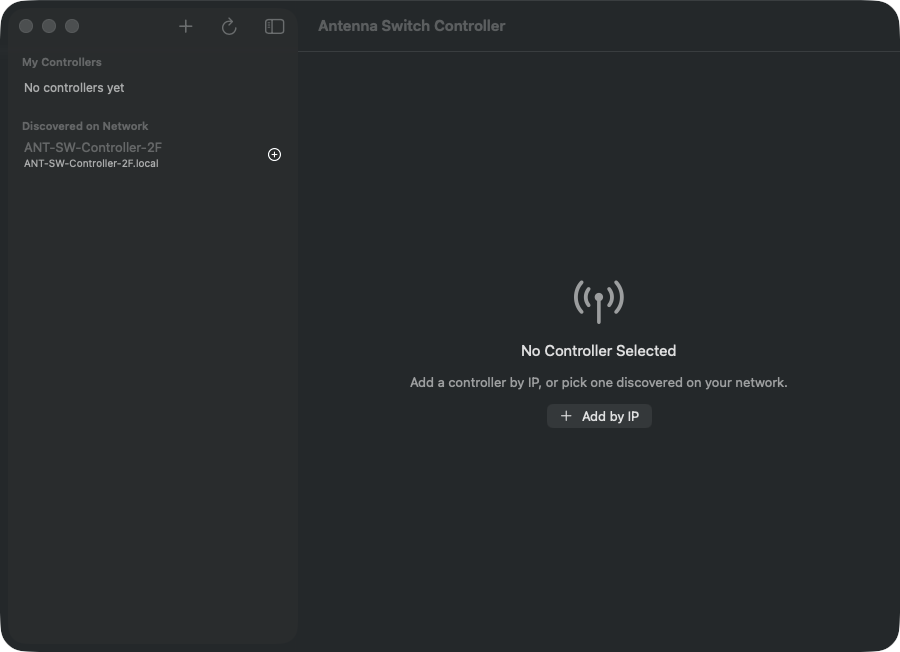
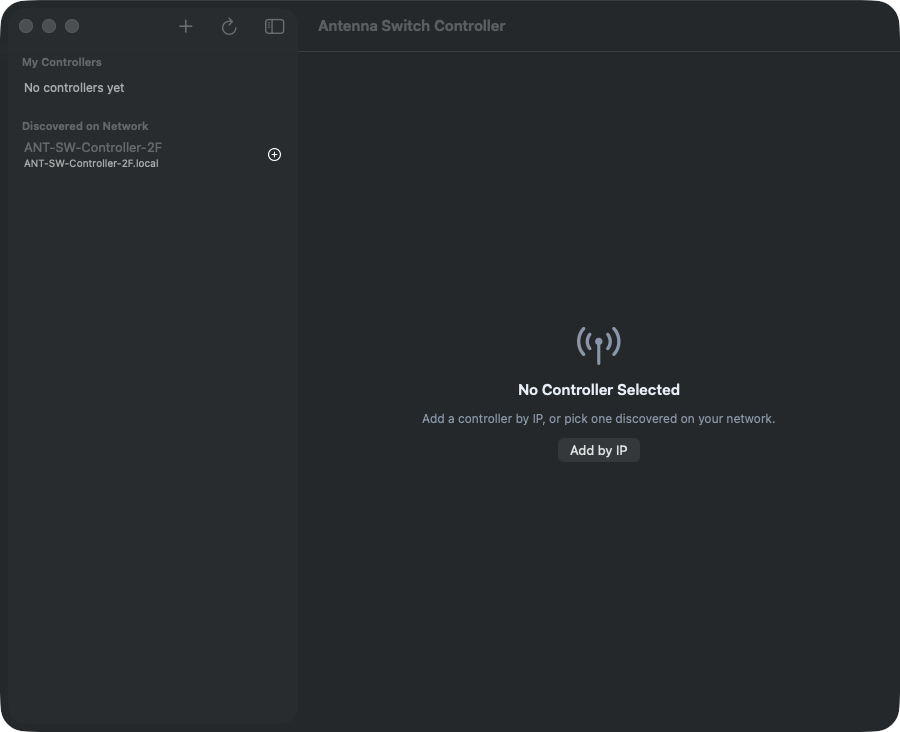
app: adopt RadioPluginUI design system (host dark-LCD theme)
Make the plugin visually coherent with the Amateur Radio Suite by adopting
RadioPluginKit's RadioPluginUI module:

- Add the RadioPluginUI product dependency.
- Replace the app's local Banner / StatusBadge / EmptyStateView with the
  themed RadioPluginUI components (they read the host-injected RadioTheme).
- Theme the remaining custom views (StatCard, ConnectionDot, Controls grid)
  via @Environment(\.radioTheme) — surface/textPrimary/textSecondary/accent/
  success tokens — instead of hard-coded system colors.
- Standalone owns its chrome, so it applies .radioTheme(.dark) +
  .preferredColorScheme(.dark) so standard controls match; in the suite the
  host injects the theme/appearance around the plugin root.

Regenerated the app screenshots to show the dark theme. Verified: app builds,
and the four-plugin AmateurRadioApps suite builds (RadioPluginUI from RPK 1.2.2).

diff --git a/App/Sources/AntennaSwitchController/Views/DashboardView.swift b/App/Sources/AntennaSwitchController/Views/DashboardView.swift
@@ -1,8 +1,11 @@
 import SwiftUI
+import RadioPluginUI
 
-/// Live operational view of a controller's `/status`.
+/// Live operational view of a controller's `/status`. Uses the host-injected
+/// `RadioTheme` (via RadioPluginUI components + tokens) so it matches the suite.
 struct DashboardView: View {
     @ObservedObject var vm: ControllerViewModel
+    @Environment(\.radioTheme) private var theme
 
     private let columns = [GridItem(.adaptive(minimum: 180), spacing: 12)]
 
@@ -10,7 +13,7 @@ struct DashboardView: View {
         ScrollView {
             VStack(alignment: .leading, spacing: 16) {
                 if let err = vm.errorMessage, !vm.connected {
-                    Banner(text: err, systemImage: "exclamationmark.triangle.fill", tint: .orange)
+                    Banner(level: .error, title: "Disconnected", message: err)
                 }
 
                 if let s = vm.status {
@@ -26,18 +29,19 @@ struct DashboardView: View {
                     }
 
                     HStack(spacing: 10) {
-                        StatusBadge(label: s.apMode ? "Setup AP" : "WiFi", on: s.apMode ? true : s.wifiUp, onColor: s.apMode ? .orange : .green)
-                        StatusBadge(label: "TCI", on: s.tciUp, onColor: .green)
-                        StatusBadge(label: "TX", on: s.transmitting, onColor: .red)
-                        StatusBadge(label: "Tune", on: s.tuning, onColor: .yellow)
-                        if s.isSwitching { StatusBadge(label: "Switching", on: true, onColor: .blue) }
+                        StatusBadge(s.apMode ? "Setup AP" : "WiFi",
+                                    kind: s.apMode ? .warning : (s.wifiUp ? .success : .neutral))
+                        StatusBadge("TCI", kind: s.tciUp ? .success : .neutral)
+                        StatusBadge("TX", kind: s.transmitting ? .danger : .neutral)
+                        StatusBadge("Tune", kind: s.tuning ? .warning : .neutral)
+                        if s.isSwitching { StatusBadge("Switching", kind: .neutral) }
                     }
 
                     if let ident = vm.identity {
                         Text("\(ident.device) • firmware \(ident.version ?? "?") • \(ident.relays ?? kRelayCount) relays")
-                            .font(.caption).foregroundStyle(.secondary)
+                            .font(.caption).foregroundStyle(theme.textSecondary)
                     }
-                    Text("IP \(s.ip)").font(.caption).foregroundStyle(.secondary)
+                    Text("IP \(s.ip)").font(.caption).foregroundStyle(theme.textSecondary)
                 } else {
                     ProgressView("Connecting to \(vm.host)…")
                         .frame(maxWidth: .infinity, minHeight: 200)
@@ -45,47 +49,26 @@ struct DashboardView: View {
             }
             .padding()
         }
+        .background(theme.background)
     }
 }
 
+/// One metric tile, themed via the host palette.
 struct StatCard: View {
+    @Environment(\.radioTheme) private var theme
     let title: String
     let value: String
     let systemImage: String
+
     var body: some View {
         VStack(alignment: .leading, spacing: 6) {
-            Label(title, systemImage: systemImage).font(.caption).foregroundStyle(.secondary)
+            Label(title, systemImage: systemImage)
+                .font(.caption).foregroundStyle(theme.textSecondary)
             Text(value).font(.title3).bold().lineLimit(1).minimumScaleFactor(0.6)
+                .foregroundStyle(theme.textPrimary)
         }
         .frame(maxWidth: .infinity, alignment: .leading)
         .padding(12)
-        .background(.quaternary.opacity(0.4), in: RoundedRectangle(cornerRadius: 10))
-    }
-}
-
-struct StatusBadge: View {
-    let label: String
-    let on: Bool
-    var onColor: Color = .green
-    var body: some View {
-        HStack(spacing: 5) {
-            Circle().fill(on ? onColor : Color.secondary.opacity(0.4)).frame(width: 8, height: 8)
-            Text(label).font(.caption)
-        }
-        .padding(.horizontal, 10).padding(.vertical, 5)
-        .background(.quaternary.opacity(0.4), in: Capsule())
-    }
-}
-
-struct Banner: View {
-    let text: String
-    var systemImage: String = "info.circle"
-    var tint: Color = .accentColor
-    var body: some View {
-        Label(text, systemImage: systemImage)
-            .font(.callout)
-            .padding(10)
-            .frame(maxWidth: .infinity, alignment: .leading)
-            .background(tint.opacity(0.15), in: RoundedRectangle(cornerRadius: 8))
+        .background(theme.surface, in: RoundedRectangle(cornerRadius: theme.cornerRadius))
     }
 }

diff --git a/App/Sources/AntennaSwitchController/Views/ControlsView.swift b/App/Sources/AntennaSwitchController/Views/ControlsView.swift
@@ -1,22 +1,24 @@
 import SwiftUI
+import RadioPluginUI
 
 /// Manual override controls — force a relay, all-off, or return to auto/TCI.
 struct ControlsView: View {
     @ObservedObject var vm: ControllerViewModel
+    @Environment(\.radioTheme) private var theme
 
     private let columns = [GridItem(.adaptive(minimum: 96), spacing: 10)]
 
     var body: some View {
         VStack(alignment: .leading, spacing: 16) {
-            Text("Manual Override").font(.headline)
+            Text("Manual Override").font(.headline).foregroundStyle(theme.textPrimary)
             Text("Force a specific relay regardless of TCI. ‘Auto’ returns to band tracking. Switching is break-before-make and is deferred while the radio is transmitting.")
-                .font(.caption).foregroundStyle(.secondary)
+                .font(.caption).foregroundStyle(theme.textSecondary)
 
             HStack {
                 Button { Task { await vm.setRelay("auto") } } label: {
                     Label("Auto (TCI)", systemImage: "wand.and.stars")
                 }
-                .buttonStyle(.borderedProminent)
+                .buttonStyle(.borderedProminent).tint(theme.accent)
                 .disabled(vm.status?.isAuto == true)
 
                 Button { Task { await vm.setRelay("none") } } label: {
@@ -27,15 +29,16 @@ struct ControlsView: View {
 
             LazyVGrid(columns: columns, spacing: 10) {
                 ForEach(0..<kRelayCount, id: \.self) { r in
+                    let active = vm.status?.activeRelay == r
                     Button { Task { await vm.setRelay(String(r)) } } label: {
                         VStack(spacing: 2) {
                             Text("R\(r + 1)").font(.headline)
-                            Text("GPIO\(kRelayGPIO[r])").font(.caption2).foregroundStyle(.secondary)
+                            Text("GPIO\(kRelayGPIO[r])").font(.caption2).foregroundStyle(theme.textSecondary)
                         }
                         .frame(maxWidth: .infinity).padding(.vertical, 10)
                     }
                     .buttonStyle(.bordered)
-                    .tint(vm.status?.activeRelay == r ? .green : nil)
+                    .tint(active ? theme.success : theme.textSecondary)
                 }
             }
 
@@ -43,11 +46,13 @@ struct ControlsView: View {
                 Text(s.activeRelay < 0
                      ? "No relay energized."
                      : "Relay R\(s.activeRelay + 1) energized.")
-                    .font(.callout).foregroundStyle(.secondary)
+                    .font(.callout).foregroundStyle(theme.textSecondary)
             }
 
             Spacer()
         }
         .padding()
+        .frame(maxWidth: .infinity, maxHeight: .infinity, alignment: .topLeading)
+        .background(theme.background)
     }
 }

diff --git a/App/Sources/AntennaSwitchController/Views/ContentView.swift b/App/Sources/AntennaSwitchController/Views/ContentView.swift
@@ -1,4 +1,5 @@
 import SwiftUI
+import RadioPluginUI
 
 /// Root UI: a sidebar of controllers (saved + discovered) and a detail pane for
 /// the selected controller. Shared by the standalone app and the suite plugin.
@@ -15,7 +16,11 @@ struct ContentView: View {
                 ControllerDetailView(controller: c)
                     .id(c.id)   // fresh view model per selected controller
             } else {
-                EmptyStateView(showAdd: $showAdd)
+                EmptyStateView(systemImage: "antenna.radiowaves.left.and.right",
+                               title: "No Controller Selected",
+                               message: "Add a controller by IP, or pick one discovered on your network.",
+                               actionTitle: "Add by IP",
+                               action: { showAdd = true })
             }
         }
         .sheet(isPresented: $showAdd) { AddControllerView() }
@@ -107,22 +112,5 @@ struct AddControllerView: View {
         }
         .padding(20)
         .frame(width: 480)
-    }
-}
-
-struct EmptyStateView: View {
-    @Binding var showAdd: Bool
-
-    var body: some View {
-        VStack(spacing: 14) {
-            Image(systemName: "antenna.radiowaves.left.and.right")
-                .font(.system(size: 48)).foregroundStyle(.secondary)
-            Text("No Controller Selected").font(.title3)
-            Text("Add a controller by IP, or pick one discovered on your network.")
-                .foregroundStyle(.secondary)
-            Button { showAdd = true } label: { Label("Add by IP", systemImage: "plus") }
-                .buttonStyle(.borderedProminent)
-        }
-        .frame(maxWidth: .infinity, maxHeight: .infinity)
     }
 }

diff --git a/App/Sources/AntennaSwitchController/Views/ControllerDetailView.swift b/App/Sources/AntennaSwitchController/Views/ControllerDetailView.swift
@@ -1,4 +1,5 @@
 import SwiftUI
+import RadioPluginUI
 
 /// Detail pane for one controller: Dashboard / Controls / Settings tabs, plus
 /// toolbar actions (open web portal, reboot). Owns the polling view model.
@@ -43,11 +44,12 @@ struct ControllerDetailView: View {
 }
 
 struct ConnectionDot: View {
+    @Environment(\.radioTheme) private var theme
     let connected: Bool
     var body: some View {
         HStack(spacing: 5) {
-            Circle().fill(connected ? Color.green : Color.secondary).frame(width: 9, height: 9)
-            Text(connected ? "Online" : "Offline").font(.caption).foregroundStyle(.secondary)
+            Circle().fill(connected ? theme.success : theme.textSecondary).frame(width: 9, height: 9)
+            Text(connected ? "Online" : "Offline").font(.caption).foregroundStyle(theme.textSecondary)
         }
     }
 }

diff --git a/App/Sources/AntennaSwitchController/App.swift b/App/Sources/AntennaSwitchController/App.swift
@@ -1,4 +1,5 @@
 import SwiftUI
+import RadioPluginUI
 
 /// Standalone-app entry. In the suite this type is unused (the container owns
 /// the process); the plugin path is `AntennaSwitchPlugin`. Kept `public` so the
@@ -24,6 +25,11 @@ public struct AntennaSwitchStandaloneApp: App {
                         .onAppear { store.start() }
                 }
             }
+            // Standalone owns its chrome: adopt the suite's dark-LCD theme + a dark
+            // appearance so standard controls match. In the suite the host injects
+            // the theme/appearance around the plugin's root instead.
+            .radioTheme(.dark)
+            .preferredColorScheme(.dark)
         }
         .windowStyle(.titleBar)
         .windowToolbarStyle(.unified)

diff --git a/App/Sources/AntennaSwitchController/Views/SettingsView.swift b/App/Sources/AntennaSwitchController/Views/SettingsView.swift
@@ -1,4 +1,5 @@
 import SwiftUI
+import RadioPluginUI
 
 /// Full configuration form — mirrors every option on the controller's web page:
 /// WiFi, TCI server, band→relay map, hostname, OTA password, guard delay.
@@ -13,7 +14,7 @@ struct SettingsView: View {
                 VStack(spacing: 12) {
                     ProgressView("Loading configuration…")
                     if let err = vm.errorMessage {
-                        Banner(text: err, systemImage: "exclamationmark.triangle.fill", tint: .orange)
+                        Banner(level: .warning, title: "Couldn’t load configuration", message: err)
                         Button("Retry") { Task { await vm.loadConfig() } }
                     }
                 }

diff --git a/App/Package.swift b/App/Package.swift
@@ -25,6 +25,7 @@ let package = Package(
             name: "AntennaSwitchController",
             dependencies: [
                 .product(name: "RadioPluginKit", package: "RadioPluginKit"),
+                .product(name: "RadioPluginUI", package: "RadioPluginKit"),
             ],
             path: "Sources/AntennaSwitchController"
         ),
